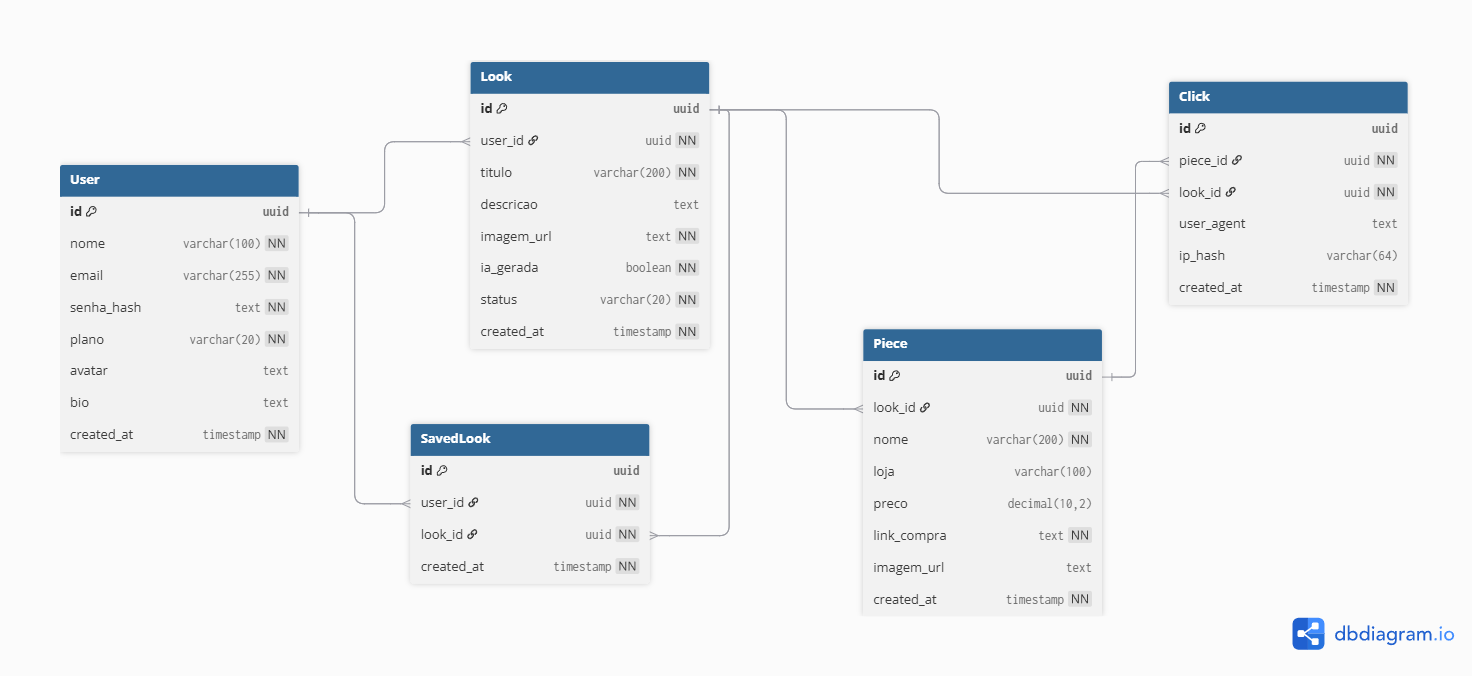
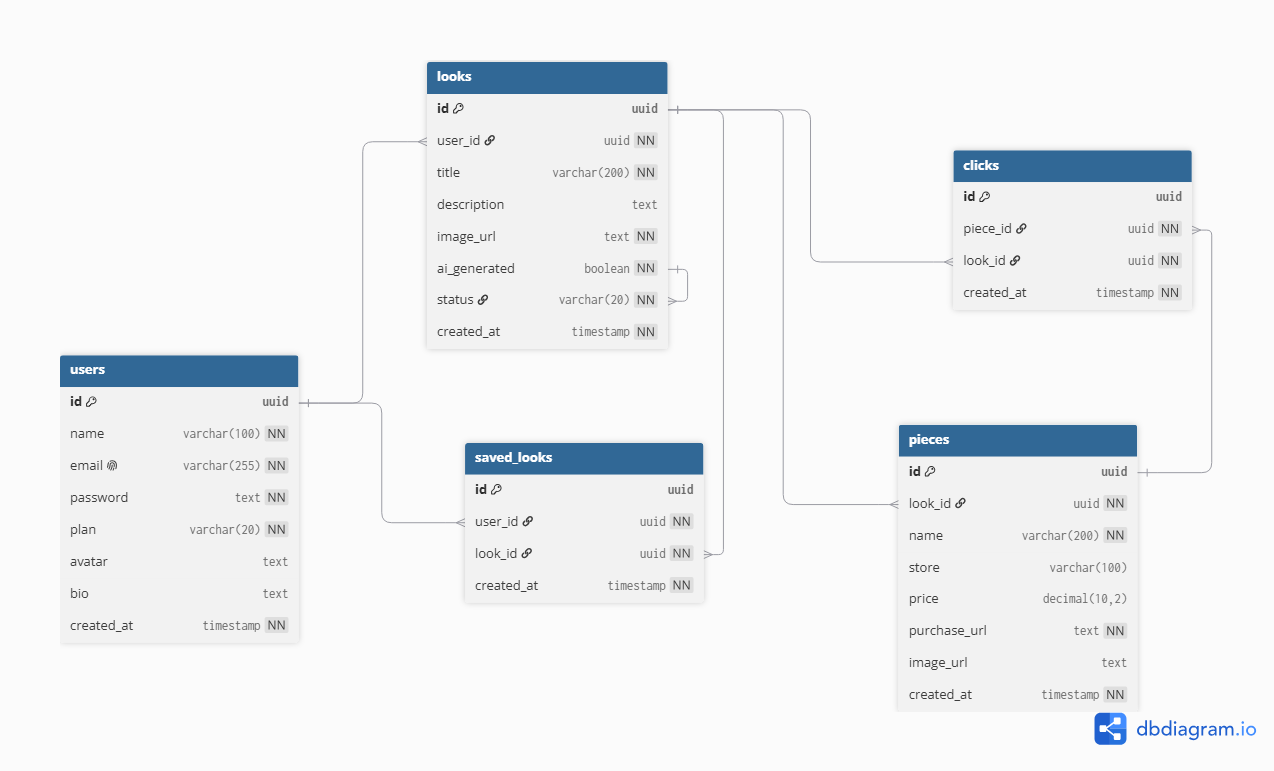
refactor: update database naming conventions and remove unnecessary external dependencies

diff --git a/docs/RFC.md b/docs/RFC.md
@@ -945,10 +945,9 @@ preço, imagem e link de compra de cada item. Aciona a validação de URL para
 cada link cadastrado antes de confirmar o cadastro da peça.
 
 **ClickTracker** — registra cada clique em link de compra externo. Ao receber
-uma requisição de redirecionamento, persiste o evento na tabela `Click` com o
-identificador da peça, o identificador do look, o `user_agent` e um hash do
-endereço IP — sem armazenar o IP bruto — e então redireciona o usuário para a
-URL externa. Esse componente é o responsável direto pela north star metric da
+uma requisição de redirecionamento, persiste o evento na tabela `clicks` com o
+identificador da peça e do look, e então redireciona o usuário para a URL
+externa. Esse componente é o responsável direto pela north star metric da
 plataforma: contagem de cliques em links de compra.
 
 **ImageService** — encapsula a integração com a Google Gemini API. Recebe uma
@@ -958,7 +957,7 @@ para o LookService, que aciona o fluxo alternativo FA05 descrito na Seção 3.
 
 **StripeClient** — abstrai a integração com o Stripe. Processa a criação da
 assinatura Pro do creator e responde a webhooks de confirmação e cancelamento
-de pagamento, atualizando o campo `plano` na entidade `User`.
+de pagamento, atualizando o campo `plan` na entidade `users`.
 
 **LinkValidator** — valida os links de compra cadastrados pelos creators. Verifica
 se a URL está acessível (resposta HTTP válida) e se o domínio de destino não
@@ -981,14 +980,14 @@ relacional com os tipos de dados adotados no PostgreSQL.
 
 ### Relacionamentos
 
-- `User` **1:N** `Look` — um usuário pode criar múltiplos looks; cada look
+- `users` **1:N** `looks` — um usuário pode criar múltiplos looks; cada look
   pertence a exatamente um usuário.
-- `Look` **1:N** `Piece` — um look é composto por múltiplas peças; cada peça
+- `looks` **1:N** `pieces` — um look é composto por múltiplas peças; cada peça
   pertence a exatamente um look.
-- `Piece` **1:N** `Click` — um clique é sempre associado a uma peça específica
+- `pieces` **1:N** `clicks` — um clique é sempre associado a uma peça específica
   e ao look ao qual essa peça pertence; cada registro de clique pertence a
   exatamente uma peça.
-- `User` **N:M** `Look` via `SavedLook` — um usuário pode salvar múltiplos
+- `users` **N:M** `looks` via `saved_looks` — um usuário pode salvar múltiplos
   looks e um mesmo look pode ser salvo por múltiplos usuários.
 
 ---
@@ -996,63 +995,55 @@ relacional com os tipos de dados adotados no PostgreSQL.
 ### Esquema Relacional
 
 ```sql
-User (
+users (
   id           UUID         PRIMARY KEY DEFAULT gen_random_uuid(),
-  nome         VARCHAR(100) NOT NULL,
+  name         VARCHAR(100) NOT NULL,
   email        VARCHAR(255) NOT NULL UNIQUE,
-  senha_hash   TEXT         NOT NULL,
-  plano        VARCHAR(20)  NOT NULL DEFAULT 'free',  -- 'free' | 'pro'
+  password     TEXT         NOT NULL,
+  plan         VARCHAR(20)  NOT NULL DEFAULT 'free',  -- 'free' | 'pro'
   avatar       TEXT,
   bio          TEXT,
   created_at   TIMESTAMP    NOT NULL DEFAULT now()
 )
 
-Look (
+looks (
   id           UUID         PRIMARY KEY DEFAULT gen_random_uuid(),
-  user_id      UUID         NOT NULL REFERENCES User(id) ON DELETE CASCADE,
-  titulo       VARCHAR(200) NOT NULL,
-  descricao    TEXT,
-  imagem_url   TEXT         NOT NULL,
-  ia_gerada    BOOLEAN      NOT NULL DEFAULT false,
-  status       VARCHAR(20)  NOT NULL DEFAULT 'rascunho',  -- 'rascunho' | 'publicado'
+  user_id      UUID         NOT NULL REFERENCES users(id) ON DELETE CASCADE,
+  title        VARCHAR(200) NOT NULL,
+  description  TEXT,
+  image_url    TEXT         NOT NULL,
+  ai_generated BOOLEAN      NOT NULL DEFAULT false,
+  status       VARCHAR(20)  NOT NULL DEFAULT 'draft',  -- 'draft' | 'published'
   created_at   TIMESTAMP    NOT NULL DEFAULT now()
 )
 
-Piece (
+pieces (
   id           UUID         PRIMARY KEY DEFAULT gen_random_uuid(),
-  look_id      UUID         NOT NULL REFERENCES Look(id) ON DELETE CASCADE,
-  nome         VARCHAR(200) NOT NULL,
-  loja         VARCHAR(100),
-  preco        NUMERIC(10,2),
-  link_compra  TEXT         NOT NULL,
-  imagem_url   TEXT,
+  look_id      UUID         NOT NULL REFERENCES looks(id) ON DELETE CASCADE,
+  name         VARCHAR(200) NOT NULL,
+  store        VARCHAR(100),
+  price        NUMERIC(10,2),
+  purchase_url TEXT         NOT NULL,
+  image_url    TEXT,
   created_at   TIMESTAMP    NOT NULL DEFAULT now()
 )
 
-Click (
+clicks (
   id           UUID         PRIMARY KEY DEFAULT gen_random_uuid(),
-  piece_id     UUID         NOT NULL REFERENCES Piece(id) ON DELETE CASCADE,
-  look_id      UUID         NOT NULL REFERENCES Look(id) ON DELETE CASCADE,
-  user_agent   TEXT,
-  ip_hash      VARCHAR(64),
+  piece_id     UUID         NOT NULL REFERENCES pieces(id) ON DELETE CASCADE,
+  look_id      UUID         NOT NULL REFERENCES looks(id) ON DELETE CASCADE,
   created_at   TIMESTAMP    NOT NULL DEFAULT now()
 )
 
-SavedLook (
+saved_looks (
   id           UUID         PRIMARY KEY DEFAULT gen_random_uuid(),
-  user_id      UUID         NOT NULL REFERENCES User(id) ON DELETE CASCADE,
-  look_id      UUID         NOT NULL REFERENCES Look(id) ON DELETE CASCADE,
+  user_id      UUID         NOT NULL REFERENCES users(id) ON DELETE CASCADE,
+  look_id      UUID         NOT NULL REFERENCES looks(id) ON DELETE CASCADE,
   created_at   TIMESTAMP    NOT NULL DEFAULT now(),
   UNIQUE (user_id, look_id)
 )
 ```
-
-O campo `ip_hash` na entidade `Click` armazena um hash do endereço IP do
-visitante em vez do IP bruto, evitando a retenção de dado pessoal desnecessário.
-O campo `look_id` é mantido diretamente na entidade `Click` — ainda que
-derivável via `Piece` — para permitir consultas de métricas agregadas por look
-sem a necessidade de junções adicionais, o que favorece o desempenho das
-consultas do painel do creator.
+O campo `look_id` é mantido diretamente na entidade `clicks` — ainda que derivável via `pieces` — para permitir consultas de métricas agregadas por look sem a necessidade de junções adicionais, o que favorece o desempenho das consultas do painel do creator.
 
 ---
 
@@ -1082,8 +1073,8 @@ O módulo de looks concentra as operações de criação, edição, publicação
 remoção de looks. É o módulo central da plataforma em termos de lógica de
 negócio: verifica se as pré-condições de publicação estão satisfeitas (RN04,
 RN08), aplica o limite de publicações conforme o plano do usuário (RN07) e
-persiste o estado do look como `rascunho` ou `publicado`. O feed público
-retorna apenas looks com status `publicado`, paginados para atender ao
+persiste o estado do look como `draft` ou `published`. O feed público
+retorna apenas looks com status `published`, paginados para atender ao
 requisito de desempenho RNF10. O módulo cobre os requisitos RF05, RF10, RF11,
 RF12, RF13 e RF14.
 
@@ -1106,7 +1097,7 @@ estabelecido pela regra de negócio RN06.
 O rastreamento de cliques é o mecanismo central de medição da north star metric
 da plataforma. Toda vez que um usuário acessa um link de compra, a requisição
 passa pelo ClickTracker antes do redirecionamento: o evento é registrado na
-tabela `Click` com os metadados relevantes e o usuário é redirecionado para a
+tabela `clicks` com o identificador da peça e do look, e o usuário é redirecionado para a
 URL externa. Esse fluxo garante que cada clique seja contabilizado de forma
 atômica — sem depender de JavaScript no cliente — e que as métricas do painel
 do creator reflitam a realidade com precisão. O módulo cobre os requisitos RF07
@@ -1120,7 +1111,7 @@ O ImageService encapsula toda a comunicação com a Google Gemini API. Ao ser
 acionado, recebe os dados do look em criação — título, tags de estilo e
 descrição das peças — e constrói um prompt estruturado para a geração de uma
 imagem de modelo virtual vestindo o look. A resposta da API é processada e a
-URL da imagem gerada é associada ao look com o campo `ia_gerada` marcado como
+URL da imagem gerada é associada ao look com o campo `ai_generated` marcado como
 `true`, permitindo que o frontend exiba o badge "IA Gerado" na tela de
 detalhes do look. Em caso de falha, o serviço retorna um erro estruturado que
 aciona o fluxo alternativo FA05. O módulo cobre o requisito RF17.
@@ -1131,7 +1122,7 @@ aciona o fluxo alternativo FA05. O módulo cobre o requisito RF17.
 
 O StripeClient gerencia exclusivamente o ciclo de vida da assinatura Pro do
 creator. O fluxo de upgrade cria uma sessão de checkout no Stripe; após o
-pagamento confirmado via webhook, o campo `plano` do usuário é atualizado de
+pagamento confirmado via webhook, o campo `plan` do usuário é atualizado de
 `free` para `pro` no banco de dados. Cancelamentos e inadimplências são
 processados pelo mesmo mecanismo de webhook, revertendo o plano para `free`
 quando necessário. O VesteAí não armazena dados de cartão nem processa
@@ -1274,18 +1265,6 @@ com issues de severidade crítica.
 
 ---
 
-### PostHog (Product Analytics)
-
-O PostHog é utilizado para rastreamento de eventos de produto e
-alimentação das métricas do painel do creator. Substitui a necessidade
-de construir um ClickTracker customizado na API — cada clique em link
-de compra é capturado via `posthog.capture('link_clicked', { piece_id, look_id })`
-diretamente no frontend, sem depender de uma rota de redirecionamento
-própria. Os dashboards do PostHog exibem contagens de cliques por look
-e por período, atendendo ao RF16 com menos código de infraestrutura.
-
----
-
 ### Prometheus + Grafana (Observabilidade)
 
 O monitoramento de infraestrutura é realizado com Prometheus para coleta de métricas e Grafana para visualização, ambos executados como containers Docker na própria instância EC2. São monitorados: latência das rotas da API, taxa de erros HTTP, uso de CPU e memória dos serviços e disponibilidade da aplicação. Alertas são configurados para disponibilidade abaixo de 99% (RNF08) e latência acima dos limites definidos em RNF01–RNF03.
@@ -1311,7 +1290,7 @@ A aplicação é hospedada na Amazon Web Services. O backend FastAPI e o fronten
 | Repositório | GitHub (monorepo) | Polyrepo | Time único, sincronização simplificada |
 | CI/CD | GitHub Actions | Jenkins | Integrado ao repositório, sem infraestrutura adicional |
 | Qualidade | SonarCloud | SonarQube (self-hosted) | Análise automática integrada ao PR sem setup de servidor |
-| Product Analytics | PostHog | ClickTracker customizado | Rastreamento de eventos sem construir infraestrutura própria |
+| Product Analytics | ClickTracker customizado | Rastreamento de eventos sem construir infraestrutura própria |
 | Monitoramento | Prometheus + Grafana | Google Cloud Monitoring | Open-source, sem custo adicional, demonstra domínio técnico |
 | Infraestrutura | AWS EC2 + RDS | GCP App Engine + Cloud SQL | Free tier de 12 meses, controle total sobre infraestrutura |
 
@@ -1353,7 +1332,7 @@ medidas adotadas para mitigá-las:
 | Ameaça | Medida adotada |
 |--------|---------------|
 | Broken Access Control | Middleware de autenticação JWT em todos os endpoints protegidos; verificação de propriedade antes de editar ou remover recursos |
-| Cryptographic Failures | Senhas armazenadas com bcrypt; comunicação exclusivamente via HTTPS; IPs armazenados apenas como hash |
+| Cryptographic Failures | Senhas armazenadas com bcrypt; comunicação exclusivamente via HTTPS|
 | Injection | Queries executadas via SQLAlchemy com parâmetros — sem concatenação de SQL; validação de entrada via Pydantic no FastAPI |
 | Insecure Design | Separação entre frontend e backend; credenciais de API externas (Gemini, Stripe) acessadas exclusivamente pelo backend |
 | Security Misconfiguration | Variáveis sensíveis (chaves de API, secret JWT, credenciais do banco) gerenciadas via variáveis de ambiente, nunca em código |
@@ -1457,7 +1436,7 @@ segundo semestre de 2026, com entrega e apresentação no Demo Day.
 | M10 | Frontend: feed de looks, tela de detalhes e carrinho | Setembro 2026 |
 | M11 | Frontend: editor de looks, painel do creator e autenticação | Outubro 2026 |
 | M12 | Integração Stripe (assinatura Pro) e testes de integração | Outubro 2026 |
-| M13 | Testes unitários (75% backend, 25% frontend), PostHog e Prometheus + Grafana | Novembro 2026 |
+| M13 | Testes unitários (75% backend, 25% frontend), Prometheus + Grafana | Novembro 2026 |
 | M14 | Deploy na AWS EC2, validação com usuários reais e ajustes finais | Novembro 2026 |
 | M15 | Demo Day — apresentação do produto funcional | Dezembro 2026 |
 